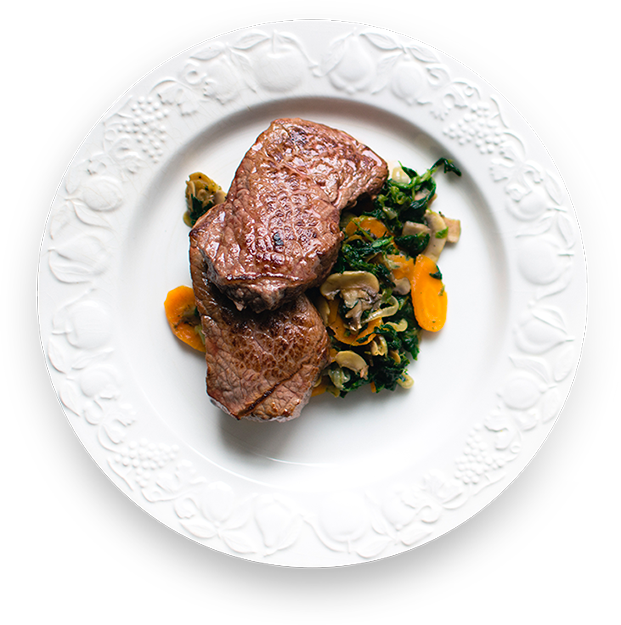
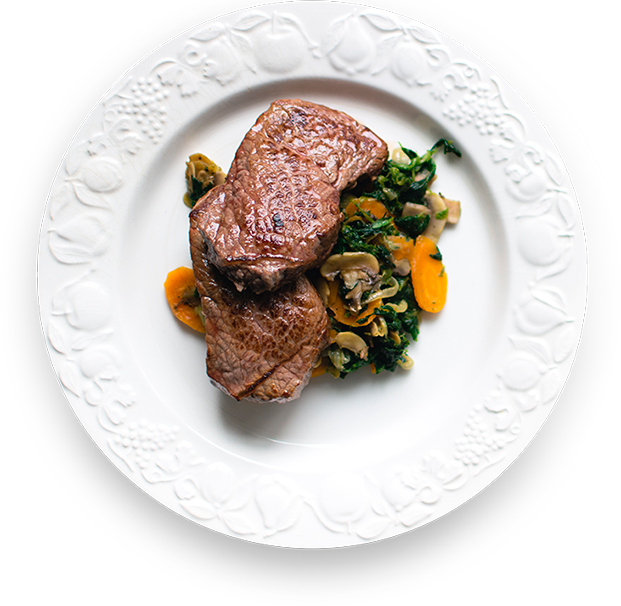
выравнивание

diff --git a/index.html b/index.html
@@ -7,14 +7,14 @@
   </head>
   <body>
     <header>
-      <div class="container">
-        <div class="navigation flex">
+      <div class="navigation">
+        <div class="container flex">
           <logo>
             <img src="images/logo.png" alt="logo" title="на главную">
           </logo>
           <nav>
             <ul class="flex">
-              <li><a href="#">home</a></li>
+              <li class="active"><a href="#">home</a></li>
               <li><a href="#">about</a></li>
               <li><a href="#">ingredients</a></li>
               <li><a href="#">menu</a></li>
@@ -28,11 +28,13 @@
             <a href="#"></a>
           </div>
         </div>
-        <div class="promo">
+      </div>
+      <div class="promo">
+        <div class="container">
           <h1>the right ingredients <br>for the right food</h1>
           <div class="buttons flex">
-            <div class="booking"><a href="#">BOOK A TABLE</a></div>
-            <div class="see_menu"><a href="#" >SEE THE MENU</a></div>
+            <div class="booking"><a href="#booking">BOOK A TABLE</a></div>
+            <div class="see_menu"><a href="#menu" >SEE THE MENU</a></div>
           </div>
         </div>
       </div>
@@ -77,10 +79,10 @@
           </div>
         </div>
       </section>
-      <section class="menu">
+      <section class="menu" id="menu">
         <div class="container flex">
           <div class="menu_theme">
-            <h2>Appetisers</h2>
+            <h2 class="gold">Appetisers</h2>
             <div class="dish_name gold flex">
               <h3>Tzatsiki</h3>
               <span>$3.99</span>
@@ -98,7 +100,20 @@
             <p>Pureed eggplant, garlic, green pepper and tomato dip.</p>
           </div>
           <div class="menu_theme">
-            <h2>Salads</h2>
+            <h2 class="gold">Starters</h2>
+            <div class="dish_name gold flex">
+              <h3>Haloumi</h3>
+              <span>$3.99</span>
+            </div>
+            <p>Refreshing traditional cucumber and garlic yoghurt dip.</p>
+            <div class="dish_name gold flex">
+              <h3>Spinach_Pie</h3>
+              <span>$5.50</span>
+            </div>
+            <p>Pureed eggplant, garlic, green pepper and tomato dip.</p>
+          </div>
+          <div class="menu_theme">
+            <h2 class="gold">Salads</h2>
             <div class="dish_name gold flex">
               <h3>Olive_Special</h3>
               <span>$5.99</span>
@@ -116,20 +131,7 @@
             <p>Pureed eggplant, garlic, green pepper and tomato dip.</p>
           </div>
           <div class="menu_theme">
-            <h2>Starters</h2>
-            <div class="dish_name gold flex">
-              <h3>Haloumi</h3>
-              <span>$3.99</span>
-            </div>
-            <p>Refreshing traditional cucumber and garlic yoghurt dip.</p>
-            <div class="dish_name gold flex">
-              <h3>Spinach_Pie</h3>
-              <span>$5.50</span>
-            </div>
-            <p>Pureed eggplant, garlic, green pepper and tomato dip.</p>
-          </div>
-          <div class="menu_theme">
-            <h2>Main Dishes</h2>
+            <h2 class="gold">Main Dishes</h2>
             <div class="dish_name gold flex">
               <h3>Cornish_Mackerel</h3>
               <span>$5.99</span>
@@ -161,19 +163,19 @@
               – and tasted – what keeps our customers coming back for more.
                Perfect materials and freshly baked food, delicious Lambda cakes,
                  muffins, and gourmet coffees make us hard to resist! Stop
-                  in today and check us out!
-                  <br>- food inc, New York</p>
+                  in today and check us out!</p>
+                  <span>- food inc, New York</span>
           </div>
         </div>
       </section>
-      <section class="reservation">
+      <section class="reservation" id="booking">
         <div class="container flex">
           <div class="images_reserv">
             <img src="images/food2.jpg" alt="блюдо с печенью">
             <img src="images/food1.jpg" alt="десерт">
           </div>
           <div class="info_reserved">
-            <h2>Just the right food</h2>
+            <h2 class="gold">Just the right food</h2>
             <p>If you’ve been to one of our restaurants, you’ve seen –
                and tasted – what keeps our customers coming back for
                 more. Perfect materials and freshly baked food.

diff --git a/styles/style.css b/styles/style.css
@@ -21,6 +21,7 @@ body{
   margin:auto;
   text-align: center;
   padding: 0 175px;
+  background-size: cover;
 }
 main .container{
   padding-top: 100px;
@@ -34,14 +35,51 @@ main .container{
 h1, h2, h3, p, ul{
   padding: 0;
   margin: 0;
+  font-weight: normal;
 }
 h1{
   font-size: 90px;
   font-family: 'Yeseva One';
+  line-height: 120px;
+  margin-top: 97px;
+}
+h1::after{
+  content: '';
+  width: 230px;
+  height: 43px;
+  background-image: url("../images/divider_big.png");
+  display: block;
+  margin: 23px auto 30px;
 }
 h2{
   font-size: 36px;
   font-family: 'Yeseva One';
+}
+h2::after{
+  content: '';
+  width: 230px;
+  height: 24px;
+  display: block;
+  margin: 14px auto 26px;
+}
+h2.gold::after{
+  background-image: url("../images/divider_gold.png");
+}
+.ingredients h2::after, .reviews h2::after{
+  background-image: url("../images/divider_white.png");
+}
+h3, .menu span{
+  line-height: 24px;
+  font-size: 21px;
+  font-family: 'Yeseva One';
+}
+footer h3::after{
+  content: '';
+  width: 200px;
+  height: 18px;
+  background-image: url("../images/divider_white_small.png");
+  display: block;
+  margin: 20px auto;
 }
 .gold{
   color: #cc9900;
@@ -60,27 +98,37 @@ li{
 }
 /*************************************************header */
 header .navigation{
-  padding: 40px 0;
+  background-image: linear-gradient(rgba(0,0,0,1), rgba(0,0,0,0));
 }
-header .promo{
+nav li{
+  border-top: 3px solid rgba(0,0,0,0);
+}
+header .promo .container{
   padding: 0 0 100px;
 }
 nav ul{
   width:720px;
 }
+nav li, .logo img, .sotials{
+  padding: 45px 0;
+}
 .navigation a{
+  font-family: 'Gentium-Basic';
   text-transform: capitalize;
   font-size: 21px;
 }
+nav .active, nav li:hover{
+  border-top: 3px solid #fff;
+}
 /********************************************** promo */
-header .container{
+header{
   background-image: url("../images/header.jpg");
-  background-size: cover;
   color:#fff;
+  background-size: cover;
 }
 .buttons{
-  width: 550px;
-  margin: auto;
+  width: 510px;
+  margin: 0 auto 45px;
 }
 .buttons div{
   width: 225px;
@@ -101,14 +149,17 @@ header .container{
   background-color: rgba(240,240,240,0.5);
   border: 1px solid #fff;
 }
-/************************************************/
+/************************************************ cook */
 .image_with_plate{
   width: 620px;
-  height: 620px;
+  height: 600px;
   background-image: url("../images/plate.png");
 }
 .cooker{
   width: 420px;
+}
+.cooker img{
+  margin-top: 55px;
 }
 /************************************************* ingredients */
 .ingredients .container{
@@ -134,6 +185,7 @@ header .container{
   border: 5px solid #212325;
   overflow: hidden;
   background-position: 50%;
+  margin-top: 75px;
 }
 /****************************************** menu */
 .menu{
@@ -141,9 +193,6 @@ header .container{
 }
 .menu .container{
   flex-wrap: wrap;
-}
-.menu h2{
-  color: #cc9900;
 }
 .menu_theme{
   width: 440px;
@@ -154,6 +203,12 @@ header .container{
 .dish_name{
   border-bottom: 1px solid #cc9900;
   justify-content: space-between;
+}
+.menu h3, .menu span{
+  padding: 0 0 10px;
+}
+.menu p{
+  padding: 10px 0 40px;
 }
 /******************************************* REVIEWS */
 .reviews .container{
@@ -170,17 +225,17 @@ header .container{
   font-size: 25px;
   line-height: 45px;
   font-family: 'Gentium-Basic';
+  color: #dde0df;
 }
 .info_reserved{
   width: 435px;
-}
-.info_reserved h2{
-  color: #cc9900;
 }
 form label{
   display: block;
   color: #cc9900;
   font-weight: 700;
+  margin: 30px 0 10px;
+  font-style: 'Lato';
 }
 form{
   text-align: left;
@@ -208,6 +263,11 @@ form{
   border: none;
   color: #fff;
   font-size: 16px;
+}
+.images_reserv{
+  width: 570px;
+  display: flex;
+  justify-content: space-between;
 }
 /***********************************************footer */
 footer{
